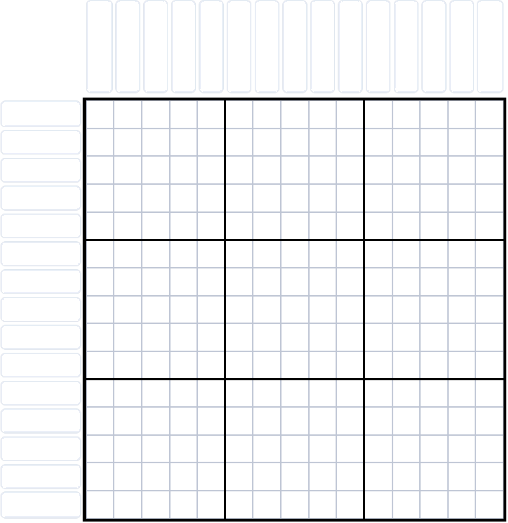
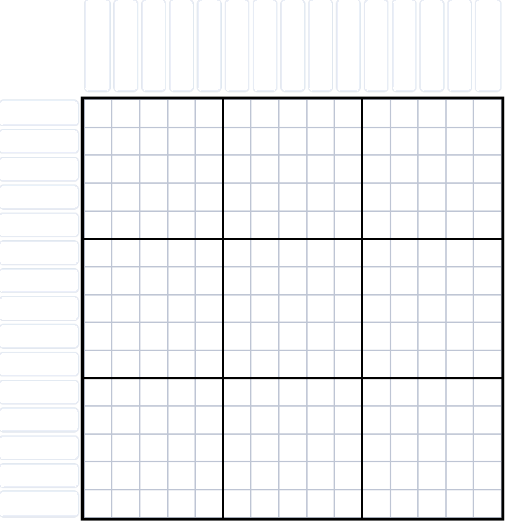
Final attempt at loading
It has been found that loading using character recognition is a much larger task than expected. This is due to image scaling and the rounding of the exact pixel locations based on it.

diff --git a/src/com/booksaw/nonogram/load/ImageLoader.java b/src/com/booksaw/nonogram/load/ImageLoader.java
@@ -1,22 +1,27 @@
 package com.booksaw.nonogram.load;
 
+import java.awt.Color;
 import java.awt.Rectangle;
 import java.awt.Robot;
 import java.awt.Toolkit;
 import java.awt.image.BufferedImage;
 import java.io.File;
-import java.io.IOException;
+import java.util.ArrayList;
+import java.util.HashMap;
+import java.util.List;
 
-import javax.imageio.ImageIO;
+import javax.swing.JOptionPane;
 
 import com.booksaw.nonogram.Nonogram;
 import com.booksaw.nonogram.Utils;
+import com.booksaw.nonogram.element.Header;
 
 public class ImageLoader implements NonogramLoader {
 
 	private final BufferedImage compareTo = Utils.getImage("hardSearch.png");
 	private final BufferedImage[] numbers;
 	private int xOnScreen, yOnScreen;
+//	private Color ignore = new Color(235, 239, 247);
 
 	public ImageLoader() {
 		numbers = new BufferedImage[15];
@@ -41,31 +46,125 @@ public class ImageLoader implements NonogramLoader {
 			return;
 		}
 
+		BufferedImage pscr = null;
 		// loaded image
 		for (int x = 0; x + compareTo.getWidth() < image.getWidth(); x++) {
 			for (int y = 0; y + compareTo.getHeight() < image.getHeight(); y++) {
-				if (checkLocation(x, y, image)) {
+				if (checkStrictLocation(x, y, image, compareTo)) {
 					System.out.println("found at x = " + x + " y = " + y);
 					xOnScreen = x;
 					yOnScreen = y;
+					pscr = image.getSubimage(x, y, compareTo.getWidth(), compareTo.getHeight());
 					break;
 				}
 			}
 		}
+
+		if (pscr == null) {
+			JOptionPane.showMessageDialog(null, "Could not find nonogram");
+			return;
+		}
+
+		addColumns(pscr, nonogram);
 	}
 
-	private boolean checkLocation(int offsetX, int offsetY, BufferedImage pscr) {
+	private boolean checkStrictLocation(int offsetX, int offsetY, BufferedImage toCheck, BufferedImage compareTo) {
 		for (int x = 0; x < compareTo.getTileWidth(); x++) {
 			for (int y = 0; y < compareTo.getHeight(); y++) {
 				int rgb = compareTo.getRGB(x, y);
 				if ((rgb >> 24) == 0x00) {
 					continue;
-				} else if (rgb != pscr.getRGB(offsetX + x, offsetY + y)) {
+				} else if (rgb != toCheck.getRGB(offsetX + x, offsetY + y)) {
 					return false;
 				}
 			}
 		}
-
 		return true;
 	}
+
+	private double checkLocation(int offsetX, int offsetY, BufferedImage toCheck, BufferedImage compareTo) {
+		int total = 0;
+		int success = 0;
+		for (int x = 0; x < compareTo.getTileWidth(); x++) {
+			for (int y = 0; y < compareTo.getHeight(); y++) {
+				int rgb = compareTo.getRGB(x, y);
+				if ((rgb >> 24) == 0x00 || new Color(rgb).getGreen() > 150) {
+					continue;
+				} else if (new Color(toCheck.getRGB(offsetX + x, offsetY + y)).getGreen() < 150) {
+					success++;
+				}
+				total++;
+			}
+		}
+		return (success) / (double) total;
+	}
+
+	private void addColumns(BufferedImage pscr, Nonogram nono) {
+		boolean full = true;
+		int column = 0;
+		for (int x = 0; x < pscr.getWidth(); x++) {
+			int rgb = compareTo.getRGB(x, 0);
+			if ((rgb >> 24) != 0x00) {
+				full = true;
+				continue;
+			}
+
+			if (!full) {
+				// the column has already been searched
+				continue;
+			}
+
+			// new column found.
+			System.out.println("Column " + column + " found at x = " + x);
+			Header columnHeader = new Header(column);
+			populateColumn(pscr, columnHeader, x);
+			nono.columns.add(columnHeader);
+			column++;
+			full = false;
+		}
+	}
+
+	private void populateColumn(BufferedImage pscr, Header column, int offsetX) {
+		// hashmap of numbers found format <y, number>
+		HashMap<Integer, Integer> numbersFound = new HashMap<>();
+		List<Integer> ignore = new ArrayList<>();
+
+		for (int i = numbers.length - 1; i >= 0; i--) {
+			// looping through all y values
+			y: for (int y = 0; y < 90; y++) {
+				// if a number has been found in that location
+				if (ignore.contains(y)) {
+					continue;
+				}
+
+				for (int x = 0; x < 24; x++) {
+					try {
+//						if()
+						if (checkLocation(offsetX + x, y, pscr, numbers[i]) > .95) {
+							numbersFound.put(y, i + 1);
+							// looping through the image height to add to ignore list
+							for (int j = 0; j < numbers[i].getHeight(); j++) {
+								ignore.add(j + y);
+							}
+							continue y;
+						}
+					} catch (ArrayIndexOutOfBoundsException e) {
+						continue y;
+					}
+				}
+
+			}
+		}
+		System.out.println("found hashmap = " + numbersFound);
+
+	}
+
+	public int getxOnScreen() {
+		return xOnScreen;
+	}
+
+	public int getyOnScreen() {
+		return yOnScreen;
+	}
+
 }

diff --git a/src/com/booksaw/nonogram/element/Header.java b/src/com/booksaw/nonogram/element/Header.java
@@ -22,12 +22,21 @@ public class Header {
 
 		for (String str : split) {
 			headers.add(Integer.parseInt(str));
+			headers = new ArrayList<>();
 		}
 
 	}
 
+	public Header(int location) {
+		this.location = location;
+	}
+
 	public List<Integer> getHeaders() {
 		return headers;
+	}
+
+	public void setHeaders(List<Integer> headers) {
+		this.headers = headers;
 	}
 
 	@Override
@@ -70,10 +79,10 @@ public class Header {
 					count = temp;
 
 				}
-				count--; 
+				count--;
 			}
 		}
-		
+
 		if (count > 0 || toSatisfy.size() != 0) {
 			return false;
 		}
